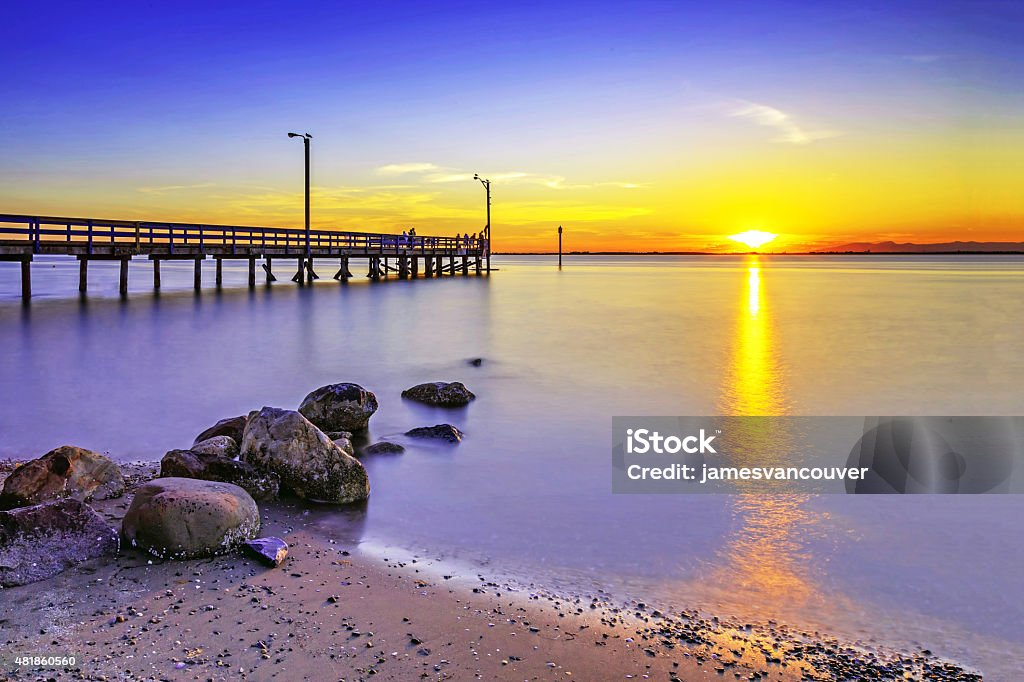
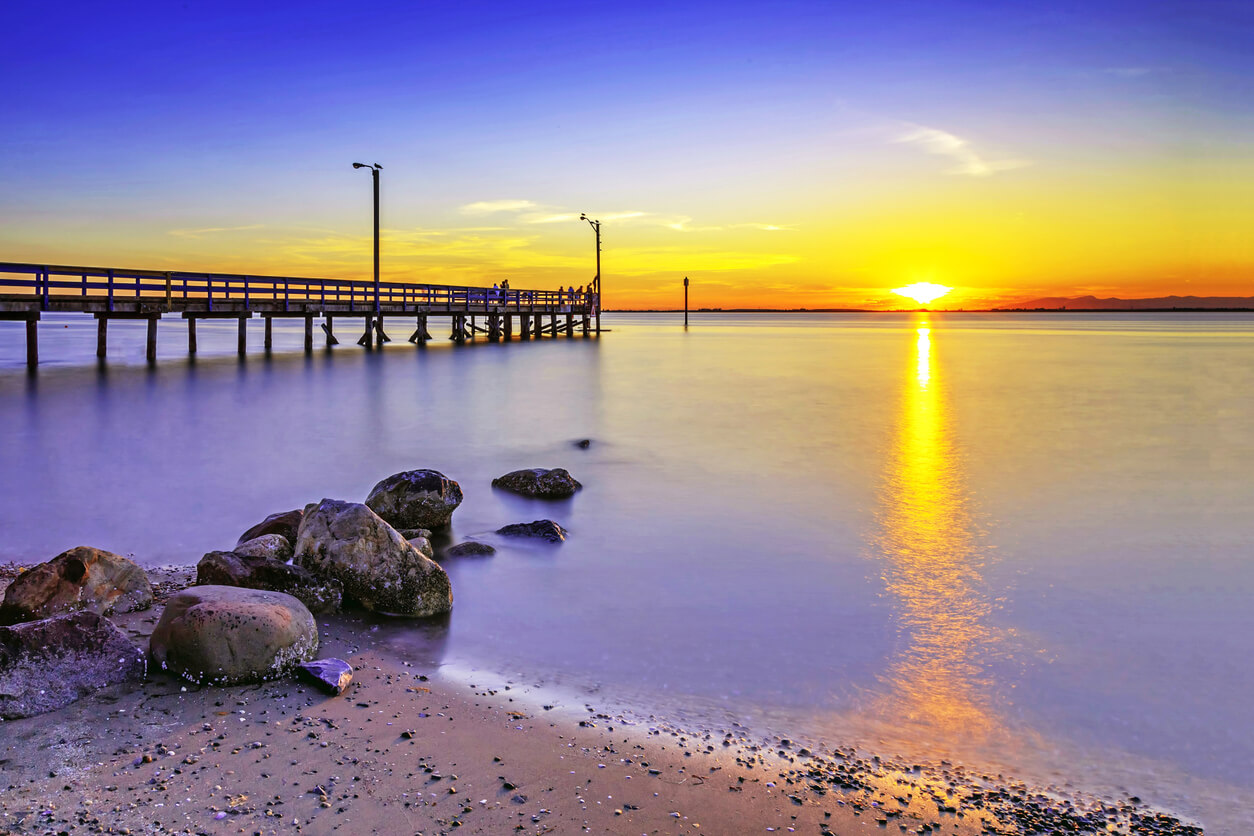
Update hero image with bought version

diff --git a/source/src/pages/index.tsx b/source/src/pages/index.tsx
@@ -4,7 +4,7 @@ import SEO from "../components/seo";
 import Fonts from "../components/fonts";
 import timHeadImage from "../images/tim-head.jpeg";
 import logoImage from "../images/logo.png";
-import crescentBeachImage from "../images/crescent-beach.jpg";
+import crescentBeachImage from "../images/crescent-beach.webp";
 
 const testimonials = [
   {
@@ -148,7 +148,7 @@ const IndexPage: React.FC<PageProps> = () => {
                 "linear-gradient(to bottom, transparent, rgba(0, 0, 0, 0.8))",
             }}
           >
-            <h1 className="text-white font-bold text-5xl md:text-5xl lg:text-6xl mb-2 drop-shadow-lg">
+            <h1 className="text-white font-bold text-4xl md:text-5xl lg:text-6xl mb-2 drop-shadow-lg">
               Phoenix Counselling
             </h1>
             <span className="font-heading font-semibold text-white text-3xl drop-shadow-lg">

diff --git a/source/src/types.d.ts b/source/src/types.d.ts
@@ -13,3 +13,12 @@ declare module "*.png" {
   export default content;
 }
 
+declare module "*.webp" {
+  const content: string;
+  export default content;
+}
+
+declare module "*.avif" {
+  const content: string;
+  export default content;
+}
